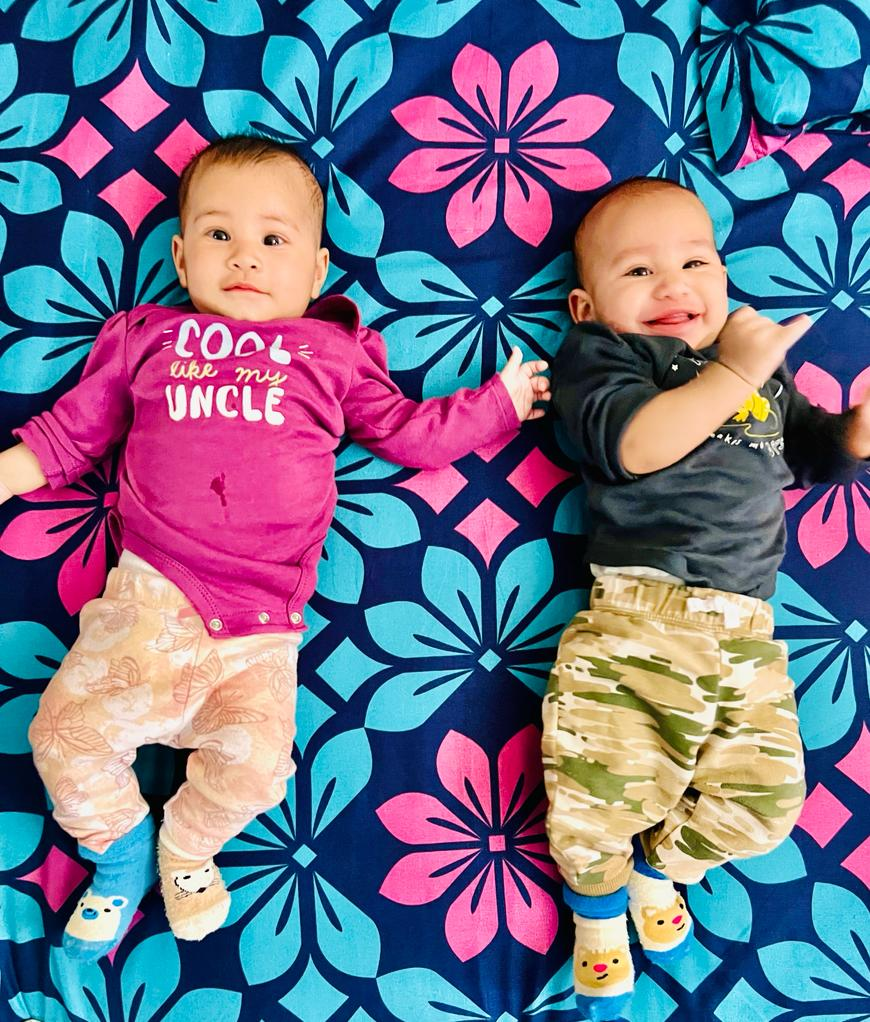
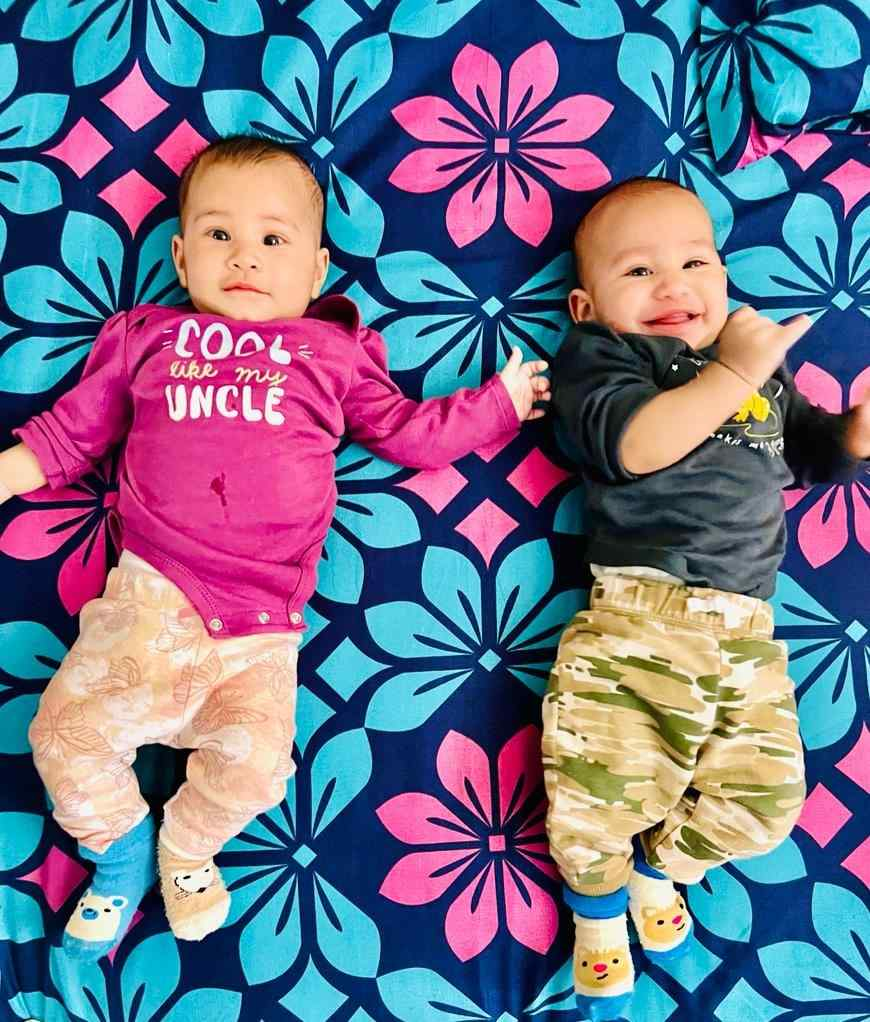
feat: optimise images

diff --git a/index.html b/index.html
@@ -83,7 +83,7 @@
         <div class="couple-wrap animate-box">
           <div class="couple-half">
             <div class="groom">
-              <img src="images/chetan.png" alt="groom" class="img-responsive" />
+              <img src="images/chetan.jpeg" alt="groom" class="img-responsive" />
             </div>
             <div class="desc-groom">
               <h3>Chetan</h3>
@@ -96,7 +96,7 @@
           <p class="heart text-center"><i class="icon-heart2"></i></p>
           <div class="couple-half">
             <div class="bride">
-              <img src="images/neha.png" alt="groom" class="img-responsive" />
+              <img src="images/neha.jpeg" alt="groom" class="img-responsive" />
             </div>
             <div class="desc-bride">
               <h3>Neha</h3>
